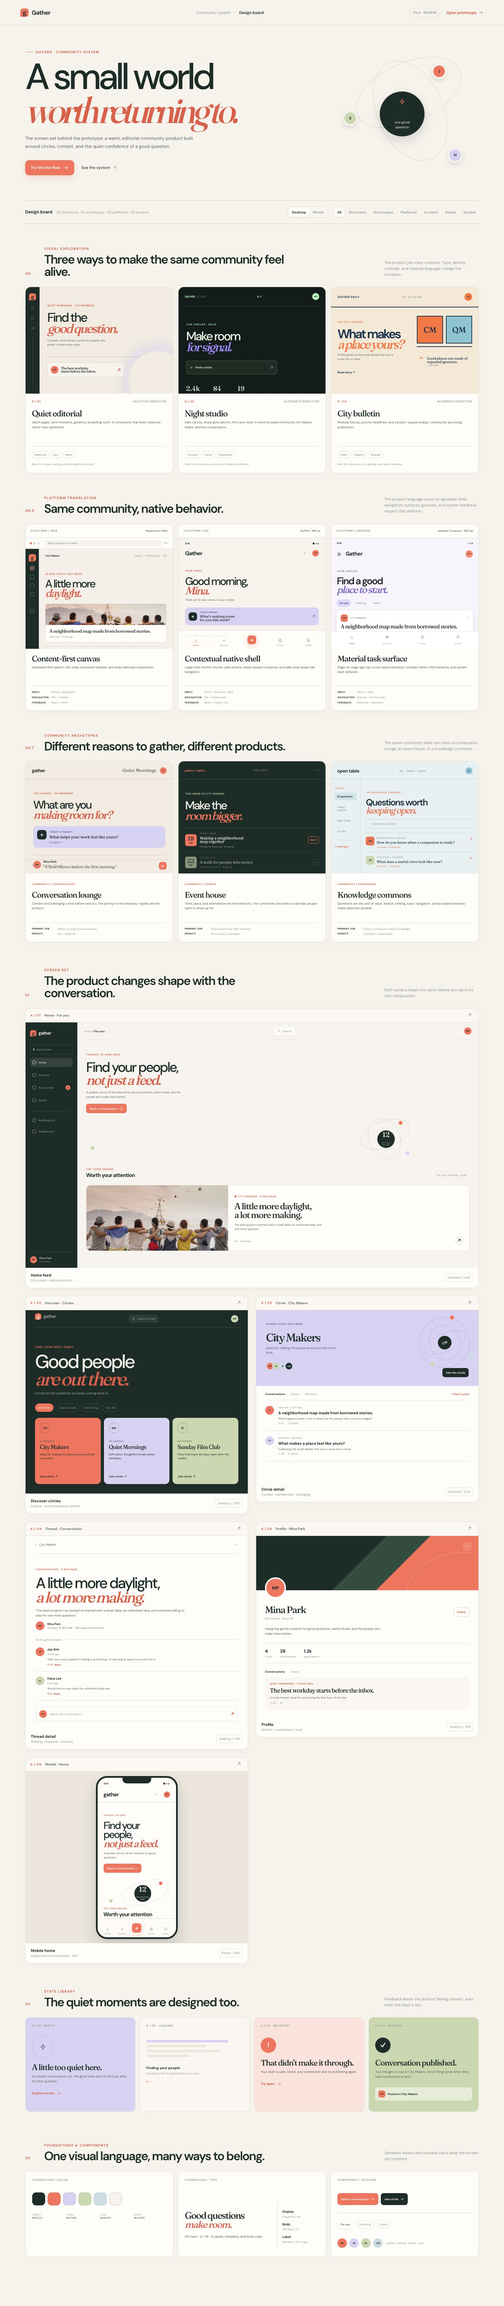
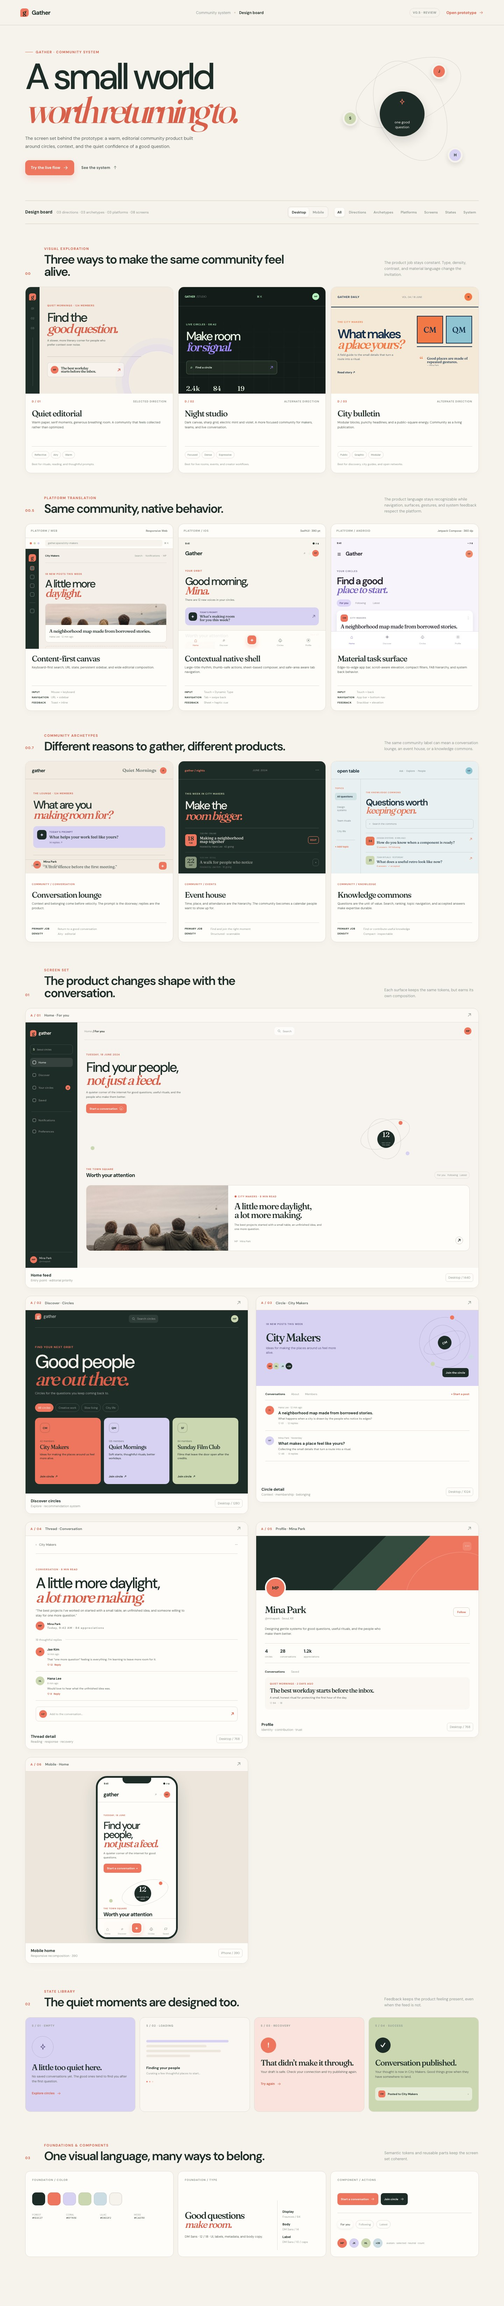
feat: make community imagery deterministic

Changed region(s): [[0.1562, 0.4986, 0.4688, 0.5609], [0.0938, 0.2493, 0.3438, 0.2804]]

diff --git a/examples/community/board.css b/examples/community/board.css
@@ -123,9 +123,9 @@ button:focus-visible, a:focus-visible { outline: 3px solid rgba(239,118,94,.4); 
 .platform-preview { position: relative; height: 316px; overflow: hidden; }
 .platform-info { padding: 17px 18px 18px; }.platform-info h3 { margin: 0 0 7px; color: var(--forest); font-family: var(--serif); font-size: 23px; font-weight: 500; letter-spacing: -.06em; line-height: 1; }.platform-info p { min-height: 43px; margin: 0; color: var(--ink-soft); font-size: 9px; line-height: 1.5; }.platform-contract { display: grid; gap: 5px; margin-top: 15px; padding-top: 12px; border-top: 1px solid var(--line); }.platform-contract span { color: var(--ink-faint); font-size: 8px; }.platform-contract b { display: inline-block; min-width: 55px; color: var(--forest); font-size: 7px; letter-spacing: .08em; text-transform: uppercase; }
 
-.web-platform-preview { background: #f4f0e9; }.browser-chrome { display: flex; align-items: center; gap: 5px; height: 31px; padding: 0 12px; border-bottom: 1px solid var(--line); background: #fffdf9; color: var(--ink-faint); }.browser-chrome > span { width: 6px; height: 6px; border-radius: 50%; background: var(--coral); }.browser-chrome > span:nth-child(2) { background: var(--moss); }.browser-chrome > span:nth-child(3) { background: var(--lilac); }.browser-chrome b { flex: 1; margin-left: 11px; padding: 5px 8px; border-radius: 5px; background: var(--paper); color: var(--ink-faint); font-size: 7px; font-weight: 500; }.browser-chrome i { font-size: 7px; font-style: normal; }.web-platform-body { display: grid; grid-template-columns: 38px 1fr; height: 285px; }.web-platform-sidebar { display: flex; flex-direction: column; align-items: center; gap: 13px; padding-top: 15px; background: var(--forest); }.web-platform-sidebar b { display: grid; place-items: center; width: 21px; height: 21px; border-radius: 7px 7px 7px 2px; background: var(--coral); color: var(--forest); font-family: var(--serif); font-size: 15px; }.web-platform-sidebar span { width: 12px; height: 12px; border: 1px solid rgba(255,255,255,.37); border-radius: 3px; }.web-platform-sidebar span.active { background: rgba(255,255,255,.22); border-color: var(--coral); }.web-platform-sidebar i { width: 17px; height: 1px; margin: 4px 0; background: rgba(255,255,255,.15); }.web-platform-main { padding: 0 18px; }.web-platform-nav { display: flex; align-items: center; justify-content: space-between; height: 40px; border-bottom: 1px solid var(--line); color: var(--ink-faint); font-size: 7px; }.web-platform-nav b { color: var(--forest); }.web-platform-main > small { display: block; margin-top: 27px; color: var(--coral-deep); font-size: 7px; font-weight: 700; letter-spacing: .12em; }.web-platform-main h3 { margin: 11px 0 16px; color: var(--forest); font-size: 31px; font-weight: 500; letter-spacing: -.09em; line-height: .85; }.web-platform-main h3 em { color: var(--coral-deep); font-family: var(--serif); font-weight: 500; }.web-platform-card { display: grid; gap: 5px; padding: 11px; border: 1px solid var(--line); border-radius: 9px; background: var(--surface); }.web-platform-card > span { height: 60px; margin: -11px -11px 6px; border-radius: 8px 8px 0 0; background: linear-gradient(145deg, rgba(239,118,94,.12), rgba(29,44,39,.15)), url('https://images.unsplash.com/photo-1529156069898-49953e39b3ac?auto=format&fit=crop&w=500&q=65') center/cover; }.web-platform-card b { color: var(--forest); font-family: var(--serif); font-size: 13px; font-weight: 500; letter-spacing: -.04em; line-height: 1; }.web-platform-card small { color: var(--ink-faint); font-size: 7px; }.web-platform-input { display: flex; justify-content: space-between; margin-top: 10px; padding: 8px 9px; border: 1px dashed var(--line-strong); border-radius: 7px; color: var(--ink-faint); font-size: 8px; }.web-platform-input b { color: var(--coral-deep); }
+.web-platform-preview { background: #f4f0e9; }.browser-chrome { display: flex; align-items: center; gap: 5px; height: 31px; padding: 0 12px; border-bottom: 1px solid var(--line); background: #fffdf9; color: var(--ink-faint); }.browser-chrome > span { width: 6px; height: 6px; border-radius: 50%; background: var(--coral); }.browser-chrome > span:nth-child(2) { background: var(--moss); }.browser-chrome > span:nth-child(3) { background: var(--lilac); }.browser-chrome b { flex: 1; margin-left: 11px; padding: 5px 8px; border-radius: 5px; background: var(--paper); color: var(--ink-faint); font-size: 7px; font-weight: 500; }.browser-chrome i { font-size: 7px; font-style: normal; }.web-platform-body { display: grid; grid-template-columns: 38px 1fr; height: 285px; }.web-platform-sidebar { display: flex; flex-direction: column; align-items: center; gap: 13px; padding-top: 15px; background: var(--forest); }.web-platform-sidebar b { display: grid; place-items: center; width: 21px; height: 21px; border-radius: 7px 7px 7px 2px; background: var(--coral); color: var(--forest); font-family: var(--serif); font-size: 15px; }.web-platform-sidebar span { width: 12px; height: 12px; border: 1px solid rgba(255,255,255,.37); border-radius: 3px; }.web-platform-sidebar span.active { background: rgba(255,255,255,.22); border-color: var(--coral); }.web-platform-sidebar i { width: 17px; height: 1px; margin: 4px 0; background: rgba(255,255,255,.15); }.web-platform-main { padding: 0 18px; }.web-platform-nav { display: flex; align-items: center; justify-content: space-between; height: 40px; border-bottom: 1px solid var(--line); color: var(--ink-faint); font-size: 7px; }.web-platform-nav b { color: var(--forest); }.web-platform-main > small { display: block; margin-top: 27px; color: var(--coral-deep); font-size: 7px; font-weight: 700; letter-spacing: .12em; }.web-platform-main h3 { margin: 11px 0 16px; color: var(--forest); font-size: 31px; font-weight: 500; letter-spacing: -.09em; line-height: .85; }.web-platform-main h3 em { color: var(--coral-deep); font-family: var(--serif); font-weight: 500; }.web-platform-card { display: grid; gap: 5px; padding: 11px; border: 1px solid var(--line); border-radius: 9px; background: var(--surface); }.web-platform-card > span { height: 60px; margin: -11px -11px 6px; border-radius: 8px 8px 0 0; background: linear-gradient(145deg, rgba(239,118,94,.12), rgba(29,44,39,.15)), url('./assets/editorial/group-overlook.jpg') center/cover; }.web-platform-card b { color: var(--forest); font-family: var(--serif); font-size: 13px; font-weight: 500; letter-spacing: -.04em; line-height: 1; }.web-platform-card small { color: var(--ink-faint); font-size: 7px; }.web-platform-input { display: flex; justify-content: space-between; margin-top: 10px; padding: 8px 9px; border: 1px dashed var(--line-strong); border-radius: 7px; color: var(--ink-faint); font-size: 8px; }.web-platform-input b { color: var(--coral-deep); }
 
-.ios-platform-preview { width: 100%; background: #f7f3ed; color: var(--forest); }.ios-status { display: flex; justify-content: space-between; padding: 11px 19px 0; font-size: 7px; font-weight: 700; }.ios-nav { display: flex; align-items: center; justify-content: space-between; padding: 13px 19px 10px; }.ios-nav b { font-size: 16px; letter-spacing: -.06em; }.ios-nav span { display: flex; align-items: center; color: var(--ink-faint); font-size: 10px; }.ios-nav i { display: grid; place-items: center; width: 19px; height: 19px; border-radius: 50%; background: var(--coral); color: var(--forest); font-size: 6px; font-style: normal; }.ios-body { padding: 16px 19px 70px; }.ios-body > small { color: var(--coral-deep); font-size: 7px; font-weight: 700; letter-spacing: .12em; }.ios-body h3 { margin: 10px 0 7px; color: var(--forest); font-size: 31px; font-weight: 500; letter-spacing: -.09em; line-height: .85; }.ios-body h3 em { color: var(--coral-deep); font-family: var(--serif); font-weight: 500; }.ios-body > p { margin: 0 0 17px; color: var(--ink-soft); font-size: 8px; }.ios-prompt { display: flex; align-items: center; gap: 8px; padding: 10px; border-radius: 11px; background: var(--lilac); }.ios-prompt > span { display: grid; place-items: center; width: 24px; height: 24px; border-radius: 8px; background: var(--forest); color: var(--lilac); font-size: 11px; }.ios-prompt div { display: grid; flex: 1; gap: 3px; }.ios-prompt small { color: var(--lilac-ink); font-size: 6px; font-weight: 700; }.ios-prompt b { color: var(--forest); font-family: var(--serif); font-size: 10px; font-weight: 500; line-height: .98; }.ios-prompt i { color: var(--lilac-ink); font-size: 13px; font-style: normal; }.ios-section { display: flex; justify-content: space-between; margin: 21px 0 9px; }.ios-section b { color: var(--forest); font-size: 13px; letter-spacing: -.04em; }.ios-section span { color: var(--coral-deep); font-size: 8px; font-weight: 700; }.ios-post { display: grid; grid-template-columns: 85px 1fr; gap: 10px; overflow: hidden; border-radius: 10px; background: var(--surface); box-shadow: 0 4px 12px rgba(29,44,39,.06); }.ios-image { min-height: 94px; background: linear-gradient(145deg, rgba(239,118,94,.12), rgba(29,44,39,.15)), url('https://images.unsplash.com/photo-1529156069898-49953e39b3ac?auto=format&fit=crop&w=400&q=65') center/cover; }.ios-post > div { display: grid; align-content: center; gap: 6px; padding-right: 8px; }.ios-post small { color: var(--coral-deep); font-size: 6px; font-weight: 700; }.ios-post b { color: var(--forest); font-family: var(--serif); font-size: 11px; font-weight: 500; letter-spacing: -.04em; line-height: .98; }.ios-post span { color: var(--ink-faint); font-size: 6px; }.ios-tabbar { position: absolute; right: 0; bottom: 0; left: 0; display: grid; grid-template-columns: repeat(5, 1fr); align-items: end; height: 53px; padding: 7px 9px 6px; border-top: 1px solid var(--line); background: rgba(255,253,249,.94); }.ios-tabbar span { display: grid; justify-items: center; gap: 1px; color: var(--ink-faint); font-size: 14px; }.ios-tabbar small { font-size: 6px; }.ios-tabbar span.selected { color: var(--coral-deep); }.ios-tabbar b { display: grid; place-items: center; width: 31px; height: 31px; margin: -7px auto 4px; border: 3px solid #f7f3ed; border-radius: 11px; background: var(--coral); color: white; font-size: 16px; box-shadow: 0 5px 12px rgba(239,118,94,.23); }
+.ios-platform-preview { width: 100%; background: #f7f3ed; color: var(--forest); }.ios-status { display: flex; justify-content: space-between; padding: 11px 19px 0; font-size: 7px; font-weight: 700; }.ios-nav { display: flex; align-items: center; justify-content: space-between; padding: 13px 19px 10px; }.ios-nav b { font-size: 16px; letter-spacing: -.06em; }.ios-nav span { display: flex; align-items: center; color: var(--ink-faint); font-size: 10px; }.ios-nav i { display: grid; place-items: center; width: 19px; height: 19px; border-radius: 50%; background: var(--coral); color: var(--forest); font-size: 6px; font-style: normal; }.ios-body { padding: 16px 19px 70px; }.ios-body > small { color: var(--coral-deep); font-size: 7px; font-weight: 700; letter-spacing: .12em; }.ios-body h3 { margin: 10px 0 7px; color: var(--forest); font-size: 31px; font-weight: 500; letter-spacing: -.09em; line-height: .85; }.ios-body h3 em { color: var(--coral-deep); font-family: var(--serif); font-weight: 500; }.ios-body > p { margin: 0 0 17px; color: var(--ink-soft); font-size: 8px; }.ios-prompt { display: flex; align-items: center; gap: 8px; padding: 10px; border-radius: 11px; background: var(--lilac); }.ios-prompt > span { display: grid; place-items: center; width: 24px; height: 24px; border-radius: 8px; background: var(--forest); color: var(--lilac); font-size: 11px; }.ios-prompt div { display: grid; flex: 1; gap: 3px; }.ios-prompt small { color: var(--lilac-ink); font-size: 6px; font-weight: 700; }.ios-prompt b { color: var(--forest); font-family: var(--serif); font-size: 10px; font-weight: 500; line-height: .98; }.ios-prompt i { color: var(--lilac-ink); font-size: 13px; font-style: normal; }.ios-section { display: flex; justify-content: space-between; margin: 21px 0 9px; }.ios-section b { color: var(--forest); font-size: 13px; letter-spacing: -.04em; }.ios-section span { color: var(--coral-deep); font-size: 8px; font-weight: 700; }.ios-post { display: grid; grid-template-columns: 85px 1fr; gap: 10px; overflow: hidden; border-radius: 10px; background: var(--surface); box-shadow: 0 4px 12px rgba(29,44,39,.06); }.ios-image { min-height: 94px; background: linear-gradient(145deg, rgba(239,118,94,.12), rgba(29,44,39,.15)), url('./assets/editorial/group-overlook.jpg') center/cover; }.ios-post > div { display: grid; align-content: center; gap: 6px; padding-right: 8px; }.ios-post small { color: var(--coral-deep); font-size: 6px; font-weight: 700; }.ios-post b { color: var(--forest); font-family: var(--serif); font-size: 11px; font-weight: 500; letter-spacing: -.04em; line-height: .98; }.ios-post span { color: var(--ink-faint); font-size: 6px; }.ios-tabbar { position: absolute; right: 0; bottom: 0; left: 0; display: grid; grid-template-columns: repeat(5, 1fr); align-items: end; height: 53px; padding: 7px 9px 6px; border-top: 1px solid var(--line); background: rgba(255,253,249,.94); }.ios-tabbar span { display: grid; justify-items: center; gap: 1px; color: var(--ink-faint); font-size: 14px; }.ios-tabbar small { font-size: 6px; }.ios-tabbar span.selected { color: var(--coral-deep); }.ios-tabbar b { display: grid; place-items: center; width: 31px; height: 31px; margin: -7px auto 4px; border: 3px solid #f7f3ed; border-radius: 11px; background: var(--coral); color: white; font-size: 16px; box-shadow: 0 5px 12px rgba(239,118,94,.23); }
 
 .android-platform-preview { background: #f7f5fb; color: #26232d; }.android-status { display: flex; justify-content: space-between; padding: 10px 16px 0; color: #26232d; font-size: 7px; font-weight: 700; }.android-appbar { display: flex; align-items: center; gap: 12px; padding: 16px 16px 14px; color: #26232d; }.android-appbar span { font-size: 15px; }.android-appbar b { flex: 1; font-size: 15px; letter-spacing: -.04em; }.android-appbar i { display: grid; place-items: center; width: 21px; height: 21px; border-radius: 50%; background: #f08b6e; font-size: 6px; font-style: normal; }.android-body { position: relative; min-height: 218px; padding: 11px 16px 60px; }.android-title small { color: #786f8f; font-size: 7px; font-weight: 700; letter-spacing: .12em; }.android-title h3 { margin: 9px 0 14px; color: #26232d; font-size: 28px; font-weight: 600; letter-spacing: -.08em; line-height: .88; }.android-title h3 em { color: #7863c0; font-family: var(--serif); font-weight: 500; }.android-filter { display: flex; gap: 4px; margin-bottom: 11px; overflow: hidden; }.android-filter span { padding: 6px 8px; border-radius: 999px; color: #8c8796; font-size: 7px; white-space: nowrap; }.android-filter span.selected { background: #dfd7f8; color: #574685; font-weight: 700; }.android-card { display: grid; gap: 7px; padding: 11px; border-radius: 12px; background: white; box-shadow: 0 5px 14px rgba(65,56,88,.1); }.android-card-top { display: flex; align-items: center; gap: 6px; }.android-card-top span { display: grid; place-items: center; width: 21px; height: 21px; border-radius: 7px; background: #ef765e; color: #26232d; font-size: 6px; font-weight: 700; }.android-card-top small { flex: 1; color: #8c8796; font-size: 6px; font-weight: 700; letter-spacing: .1em; }.android-card-top i { color: #8c8796; font-size: 12px; font-style: normal; }.android-card > b { color: #26232d; font-family: var(--serif); font-size: 15px; font-weight: 500; letter-spacing: -.04em; line-height: .98; }.android-card p { margin: 0; color: #77717e; font-size: 8px; line-height: 1.35; }.android-card-bottom { display: flex; justify-content: space-between; color: #9d98a6; font-size: 6px; }.android-card-bottom b { color: #7863c0; font-size: 6px; }.android-fab { position: absolute; right: 20px; bottom: 14px; display: grid; place-items: center; width: 35px; height: 35px; border-radius: 11px; background: #7863c0; color: white; font-size: 19px; box-shadow: 0 6px 13px rgba(120,99,192,.3); }.android-nav { position: absolute; right: 0; bottom: 0; left: 0; display: grid; grid-template-columns: repeat(4, 1fr); height: 50px; padding: 7px 8px 5px; border-top: 1px solid #e4dfef; background: #fff; }.android-nav span { display: grid; justify-items: center; gap: 1px; color: #9d98a6; font-size: 13px; }.android-nav small { font-size: 6px; }.android-nav span.selected { color: #7863c0; }
 
@@ -181,7 +181,7 @@ button:focus-visible, a:focus-visible { outline: 3px solid rgba(239,118,94,.4); 
 .mini-home { min-width: 0; padding: 0 20px 20px; }.mini-topbar { display: flex; align-items: center; justify-content: space-between; height: 50px; border-bottom: 1px solid var(--line); color: var(--ink-faint); font-size: 8px; }.mini-topbar b { color: var(--ink); }.mini-search { display: flex; align-items: center; gap: 5px; padding: 6px 8px; border-radius: 7px; background: rgba(255,255,255,.7); color: var(--ink-faint); }.mini-search .board-icon { width: 11px; height: 11px; }.mini-avatar { display: grid; place-items: center; width: 21px; height: 21px; border-radius: 50%; background: var(--coral); color: var(--forest) !important; font-size: 7px; }
 .mini-home-body { display: grid; grid-template-columns: minmax(0, 1fr) 150px; gap: 18px; padding: 28px 5px; }.mini-hello { grid-column: span 2; }.mini-hello small, .mini-section-head small, .mini-feature small { color: var(--coral-deep); font-size: 7px; font-weight: 700; letter-spacing: .12em; }.mini-hello h3 { margin: 10px 0 10px; color: var(--forest); font-size: clamp(23px, 4vw, 39px); font-weight: 500; letter-spacing: -.08em; line-height: .95; }.mini-hello p { max-width: 275px; margin: 0 0 14px; color: var(--ink-soft); font-size: 8px; line-height: 1.55; }.mini-hello button { padding: 8px 10px; border-radius: 7px; background: var(--coral); color: white; font-size: 8px; font-weight: 700; }.mini-hello button span { display: inline-grid; place-items: center; width: 11px; height: 11px; margin-left: 3px; border: 1px solid rgba(255,255,255,.55); border-radius: 50%; }
 .mini-orbit { position: relative; height: 112px; }.mini-orbit:before, .mini-orbit:after { position: absolute; content: ""; border: 1px solid rgba(29,44,39,.15); border-radius: 50%; transform: rotate(-20deg); }.mini-orbit:before { top: 4px; right: 0; width: 145px; height: 74px; }.mini-orbit:after { top: -4px; right: 30px; width: 90px; height: 116px; }.mini-orbit span { position: absolute; top: 31px; right: 46px; display: grid; place-items: center; width: 50px; height: 50px; border-radius: 50%; background: var(--forest); color: var(--paper); font-family: var(--serif); font-size: 20px; line-height: .8; }.mini-orbit span small { margin-top: 4px; color: rgba(255,255,255,.65); font-family: var(--sans); font-size: 5px; line-height: 1.2; text-align: center; }.mini-orbit i { position: absolute; z-index: 1; width: 15px; height: 15px; border: 2px solid #f7f4ef; border-radius: 50%; }.mini-orbit i:nth-child(1) { top: 2px; right: 22px; background: var(--coral); }.mini-orbit i:nth-child(2) { top: 74px; left: 11px; background: var(--moss); }.mini-orbit i:nth-child(3) { right: 2px; bottom: 8px; background: var(--lilac); }
-.mini-section-head { display: flex; align-items: flex-end; justify-content: space-between; grid-column: span 2; padding-top: 7px; }.mini-section-head span { display: grid; gap: 3px; }.mini-section-head span b { color: var(--forest); font-size: 15px; letter-spacing: -.05em; }.mini-section-head em { padding: 5px 7px; border: 1px solid var(--line); border-radius: 999px; color: var(--ink-faint); font-size: 7px; font-style: normal; }.mini-feature { display: grid; grid-template-columns: 37% 1fr; grid-column: span 2; min-height: 145px; overflow: hidden; border: 1px solid var(--line); border-radius: 13px; background: var(--surface); }.mini-feature-image { min-height: 145px; background: linear-gradient(145deg, rgba(239,118,94,.15), rgba(29,44,39,.15)), url('https://images.unsplash.com/photo-1529156069898-49953e39b3ac?auto=format&fit=crop&w=700&q=65') center/cover; filter: saturate(.7); }.mini-feature > div:last-child { padding: 18px; }.mini-feature h4 { max-width: 230px; margin: 8px 0; color: var(--forest); font-family: var(--serif); font-size: clamp(17px, 2.5vw, 25px); font-weight: 500; letter-spacing: -.06em; line-height: 1.02; }.mini-feature p { max-width: 260px; margin: 0 0 16px; color: var(--ink-soft); font-size: 8px; line-height: 1.5; }.mini-feature > div:last-child > span { color: var(--ink-faint); font-size: 7px; }.mini-feature > div:last-child > span b { float: right; display: grid; place-items: center; width: 22px; height: 22px; border: 1px solid var(--line-strong); border-radius: 50%; color: var(--ink); font-size: 12px; }
+.mini-section-head { display: flex; align-items: flex-end; justify-content: space-between; grid-column: span 2; padding-top: 7px; }.mini-section-head span { display: grid; gap: 3px; }.mini-section-head span b { color: var(--forest); font-size: 15px; letter-spacing: -.05em; }.mini-section-head em { padding: 5px 7px; border: 1px solid var(--line); border-radius: 999px; color: var(--ink-faint); font-size: 7px; font-style: normal; }.mini-feature { display: grid; grid-template-columns: 37% 1fr; grid-column: span 2; min-height: 145px; overflow: hidden; border: 1px solid var(--line); border-radius: 13px; background: var(--surface); }.mini-feature-image { min-height: 145px; background: linear-gradient(145deg, rgba(239,118,94,.15), rgba(29,44,39,.15)), url('./assets/editorial/group-overlook.jpg') center/cover; filter: saturate(.7); }.mini-feature > div:last-child { padding: 18px; }.mini-feature h4 { max-width: 230px; margin: 8px 0; color: var(--forest); font-family: var(--serif); font-size: clamp(17px, 2.5vw, 25px); font-weight: 500; letter-spacing: -.06em; line-height: 1.02; }.mini-feature p { max-width: 260px; margin: 0 0 16px; color: var(--ink-soft); font-size: 8px; line-height: 1.5; }.mini-feature > div:last-child > span { color: var(--ink-faint); font-size: 7px; }.mini-feature > div:last-child > span b { float: right; display: grid; place-items: center; width: 22px; height: 22px; border: 1px solid var(--line-strong); border-radius: 50%; color: var(--ink); font-size: 12px; }
 
 /* miniature Discover screen */
 .canvas-discover { min-height: 490px; padding: 0 27px 27px; background: var(--forest); color: var(--paper); }.mini-topbar.dark { border-bottom-color: rgba(255,255,255,.13); color: rgba(255,255,255,.55); }.mini-topbar.dark b { color: var(--paper); }.mini-search.light { background: rgba(255,255,255,.08); color: rgba(255,255,255,.52); }.light-avatar { background: var(--moss); }.discover-copy { padding: 42px 0 23px; }.discover-copy small { color: var(--coral); font-size: 8px; font-weight: 700; letter-spacing: .13em; }.discover-copy h3 { margin: 10px 0; font-size: clamp(32px, 5vw, 54px); font-weight: 500; letter-spacing: -.08em; line-height: .9; }.discover-copy p { margin: 0; color: rgba(255,255,255,.6); font-size: 9px; }.discover-tags { display: flex; gap: 5px; margin-bottom: 17px; }.discover-tags span { padding: 6px 8px; border: 1px solid rgba(255,255,255,.16); border-radius: 999px; color: rgba(255,255,255,.52); font-size: 8px; }.discover-tags span.selected { border-color: var(--coral); background: var(--coral); color: white; }.discover-cards { display: grid; grid-template-columns: repeat(3, 1fr); gap: 9px; }.circle-tile { min-height: 187px; padding: 14px; border-radius: 12px; color: var(--forest); }.circle-tile > span { display: grid; place-items: center; width: 29px; height: 29px; margin-bottom: 19px; border: 2px solid rgba(29,44,39,.15); border-radius: 10px; font-size: 8px; font-weight: 700; }.circle-tile small { display: block; margin-bottom: 5px; font-size: 7px; opacity: .64; }.circle-tile strong { display: block; font-family: var(--serif); font-size: 16px; font-weight: 500; letter-spacing: -.05em; line-height: .95; }.circle-tile p { min-height: 39px; margin: 8px 0 16px; font-size: 8px; line-height: 1.35; }.circle-tile > b { font-size: 8px; }.coral-tile { background: var(--coral); }.lilac-tile { background: var(--lilac); }.moss-tile { background: var(--moss); }
@@ -196,7 +196,7 @@ button:focus-visible, a:focus-visible { outline: 3px solid rgba(239,118,94,.4); 
 .canvas-profile { min-height: 490px; background: var(--surface); }.profile-cover { position: relative; height: 155px; background: linear-gradient(135deg, var(--forest) 0 47%, #344c40 47% 63%, var(--coral) 63%); }.profile-cover:after { position: absolute; right: -50px; bottom: -80px; width: 260px; height: 180px; border: 1px solid rgba(255,255,255,.25); border-radius: 50%; content: ""; transform: rotate(-23deg); }.profile-cover > span { position: absolute; bottom: -23px; left: 25px; z-index: 1; display: grid; place-items: center; width: 60px; height: 60px; border: 4px solid var(--surface); border-radius: 50%; background: var(--coral); color: var(--forest); font-size: 13px; font-weight: 700; }.profile-cover > button { position: absolute; top: 17px; right: 20px; width: 25px; height: 25px; border-radius: 7px; background: rgba(255,255,255,.12); color: white; }.profile-content { padding: 39px 25px 22px; }.profile-head { display: flex; align-items: center; justify-content: space-between; }.profile-head h3 { margin: 0 0 3px; color: var(--forest); font-family: var(--serif); font-size: 27px; font-weight: 500; letter-spacing: -.06em; }.profile-head p { margin: 0; color: var(--ink-faint); font-size: 8px; }.profile-head button { padding: 7px 10px; border: 1px solid var(--line-strong); border-radius: 7px; background: transparent; color: var(--coral-deep); font-size: 8px; font-weight: 700; }.profile-bio { max-width: 350px; margin: 19px 0; color: var(--ink-soft); font-size: 9px; line-height: 1.55; }.profile-stats { display: flex; gap: 22px; padding: 13px 0; border-top: 1px solid var(--line); border-bottom: 1px solid var(--line); }.profile-stats span { display: grid; gap: 3px; color: var(--ink-faint); font-size: 7px; }.profile-stats b { color: var(--forest); font-size: 13px; }.profile-tabs { display: flex; gap: 18px; padding: 19px 0 11px; color: var(--ink-faint); font-size: 8px; }.profile-tabs b { color: var(--ink); }.profile-post { display: grid; gap: 6px; padding: 14px; border-radius: 10px; background: var(--surface-soft); }.profile-post small { color: var(--coral-deep); font-size: 7px; font-weight: 700; letter-spacing: .1em; }.profile-post strong { color: var(--forest); font-family: var(--serif); font-size: 17px; font-weight: 500; letter-spacing: -.05em; line-height: 1.04; }.profile-post p { margin: 0; color: var(--ink-soft); font-size: 8px; }.profile-post span { color: var(--ink-faint); font-size: 7px; }
 
 /* miniature mobile screen */
-.canvas-mobile { display: grid; place-items: center; min-height: 490px; background: var(--paper-deep); }.phone-frame { position: relative; width: 234px; height: 465px; overflow: hidden; border: 5px solid var(--forest); border-radius: 32px; background: var(--surface); box-shadow: 0 20px 45px rgba(29,44,39,.18); }.phone-notch { position: absolute; top: 0; left: 50%; z-index: 2; width: 82px; height: 16px; border-radius: 0 0 12px 12px; background: var(--forest); transform: translateX(-50%); }.phone-status { display: flex; justify-content: space-between; padding: 12px 18px 0; color: var(--forest); font-size: 7px; font-weight: 700; }.phone-top { display: flex; align-items: center; justify-content: space-between; padding: 17px 17px 11px; border-bottom: 1px solid var(--line); color: var(--forest); font-size: 11px; }.phone-top > b { font-size: 15px; letter-spacing: -.06em; }.phone-top > span { display: flex; align-items: center; color: var(--ink-faint); font-size: 10px; }.phone-top i { display: grid; place-items: center; width: 18px; height: 18px; border-radius: 50%; background: var(--coral); color: var(--forest); font-size: 6px; font-style: normal; }.phone-body { padding: 23px 17px 74px; }.phone-kicker, .phone-section small, .phone-story > span { color: var(--coral-deep); font-size: 6px; font-weight: 700; letter-spacing: .12em; }.phone-body h3 { margin: 9px 0 8px; color: var(--forest); font-size: 29px; font-weight: 500; letter-spacing: -.09em; line-height: .9; }.phone-body > p { max-width: 180px; margin: 0 0 12px; color: var(--ink-soft); font-size: 8px; line-height: 1.5; }.phone-body > button { padding: 8px 10px; border-radius: 7px; background: var(--coral); color: white; font-size: 8px; font-weight: 700; }.phone-orbit { position: relative; height: 85px; margin-top: 13px; }.phone-orbit:before { position: absolute; top: 10px; right: 3px; width: 135px; height: 65px; border: 1px solid rgba(29,44,39,.14); border-radius: 50%; content: ""; transform: rotate(-17deg); }.phone-orbit span { position: absolute; top: 22px; right: 54px; display: grid; place-items: center; width: 48px; height: 48px; border-radius: 50%; background: var(--forest); color: white; font-family: var(--serif); font-size: 20px; line-height: .7; }.phone-orbit span small { margin-top: 4px; font-family: var(--sans); font-size: 5px; line-height: 1.2; text-align: center; }.phone-orbit i { position: absolute; z-index: 1; width: 14px; height: 14px; border: 2px solid var(--surface); border-radius: 50%; }.phone-orbit i:nth-child(1) { top: 10px; right: 20px; background: var(--coral); }.phone-orbit i:nth-child(2) { top: 60px; left: 14px; background: var(--moss); }.phone-section { display: grid; gap: 3px; margin-bottom: 9px; }.phone-section b { color: var(--forest); font-size: 15px; letter-spacing: -.05em; }.phone-story { display: grid; gap: 7px; overflow: hidden; border: 1px solid var(--line); border-radius: 10px; background: var(--surface); }.phone-story > div { height: 82px; background: linear-gradient(145deg, rgba(239,118,94,.13), rgba(29,44,39,.16)), url('https://images.unsplash.com/photo-1529156069898-49953e39b3ac?auto=format&fit=crop&w=600&q=65') center/cover; }.phone-story > span, .phone-story > strong, .phone-story > small { margin: 0 11px; }.phone-story > strong { color: var(--forest); font-family: var(--serif); font-size: 17px; font-weight: 500; letter-spacing: -.06em; line-height: 1.02; }.phone-story > small { padding-bottom: 11px; color: var(--ink-faint); font-size: 7px; }.phone-nav { position: absolute; right: 0; bottom: 0; left: 0; display: grid; grid-template-columns: repeat(5, 1fr); align-items: end; height: 54px; padding: 8px 8px 6px; border-top: 1px solid var(--line); background: rgba(255,253,249,.96); }.phone-nav span { display: grid; justify-items: center; gap: 1px; color: var(--ink-faint); font-size: 13px; }.phone-nav small { font-size: 6px; }.phone-nav b { display: grid; place-items: center; width: 33px; height: 33px; margin: -8px auto 4px; border: 3px solid var(--surface); border-radius: 11px; background: var(--coral); color: white; box-shadow: 0 5px 12px rgba(239,118,94,.25); }
+.canvas-mobile { display: grid; place-items: center; min-height: 490px; background: var(--paper-deep); }.phone-frame { position: relative; width: 234px; height: 465px; overflow: hidden; border: 5px solid var(--forest); border-radius: 32px; background: var(--surface); box-shadow: 0 20px 45px rgba(29,44,39,.18); }.phone-notch { position: absolute; top: 0; left: 50%; z-index: 2; width: 82px; height: 16px; border-radius: 0 0 12px 12px; background: var(--forest); transform: translateX(-50%); }.phone-status { display: flex; justify-content: space-between; padding: 12px 18px 0; color: var(--forest); font-size: 7px; font-weight: 700; }.phone-top { display: flex; align-items: center; justify-content: space-between; padding: 17px 17px 11px; border-bottom: 1px solid var(--line); color: var(--forest); font-size: 11px; }.phone-top > b { font-size: 15px; letter-spacing: -.06em; }.phone-top > span { display: flex; align-items: center; color: var(--ink-faint); font-size: 10px; }.phone-top i { display: grid; place-items: center; width: 18px; height: 18px; border-radius: 50%; background: var(--coral); color: var(--forest); font-size: 6px; font-style: normal; }.phone-body { padding: 23px 17px 74px; }.phone-kicker, .phone-section small, .phone-story > span { color: var(--coral-deep); font-size: 6px; font-weight: 700; letter-spacing: .12em; }.phone-body h3 { margin: 9px 0 8px; color: var(--forest); font-size: 29px; font-weight: 500; letter-spacing: -.09em; line-height: .9; }.phone-body > p { max-width: 180px; margin: 0 0 12px; color: var(--ink-soft); font-size: 8px; line-height: 1.5; }.phone-body > button { padding: 8px 10px; border-radius: 7px; background: var(--coral); color: white; font-size: 8px; font-weight: 700; }.phone-orbit { position: relative; height: 85px; margin-top: 13px; }.phone-orbit:before { position: absolute; top: 10px; right: 3px; width: 135px; height: 65px; border: 1px solid rgba(29,44,39,.14); border-radius: 50%; content: ""; transform: rotate(-17deg); }.phone-orbit span { position: absolute; top: 22px; right: 54px; display: grid; place-items: center; width: 48px; height: 48px; border-radius: 50%; background: var(--forest); color: white; font-family: var(--serif); font-size: 20px; line-height: .7; }.phone-orbit span small { margin-top: 4px; font-family: var(--sans); font-size: 5px; line-height: 1.2; text-align: center; }.phone-orbit i { position: absolute; z-index: 1; width: 14px; height: 14px; border: 2px solid var(--surface); border-radius: 50%; }.phone-orbit i:nth-child(1) { top: 10px; right: 20px; background: var(--coral); }.phone-orbit i:nth-child(2) { top: 60px; left: 14px; background: var(--moss); }.phone-section { display: grid; gap: 3px; margin-bottom: 9px; }.phone-section b { color: var(--forest); font-size: 15px; letter-spacing: -.05em; }.phone-story { display: grid; gap: 7px; overflow: hidden; border: 1px solid var(--line); border-radius: 10px; background: var(--surface); }.phone-story > div { height: 82px; background: linear-gradient(145deg, rgba(239,118,94,.13), rgba(29,44,39,.16)), url('./assets/editorial/group-overlook.jpg') center/cover; }.phone-story > span, .phone-story > strong, .phone-story > small { margin: 0 11px; }.phone-story > strong { color: var(--forest); font-family: var(--serif); font-size: 17px; font-weight: 500; letter-spacing: -.06em; line-height: 1.02; }.phone-story > small { padding-bottom: 11px; color: var(--ink-faint); font-size: 7px; }.phone-nav { position: absolute; right: 0; bottom: 0; left: 0; display: grid; grid-template-columns: repeat(5, 1fr); align-items: end; height: 54px; padding: 8px 8px 6px; border-top: 1px solid var(--line); background: rgba(255,253,249,.96); }.phone-nav span { display: grid; justify-items: center; gap: 1px; color: var(--ink-faint); font-size: 13px; }.phone-nav small { font-size: 6px; }.phone-nav b { display: grid; place-items: center; width: 33px; height: 33px; margin: -8px auto 4px; border: 3px solid var(--surface); border-radius: 11px; background: var(--coral); color: white; box-shadow: 0 5px 12px rgba(239,118,94,.25); }
 
 /* states */
 .states-section { padding-bottom: 16px; }.state-grid { display: grid; grid-template-columns: repeat(4, minmax(0, 1fr)); gap: 12px; }.state-card { min-height: 270px; padding: 18px; border: 1px solid var(--line); border-radius: 14px; background: var(--surface); }.state-index { display: block; color: var(--ink-faint); font-size: 8px; font-weight: 700; letter-spacing: .11em; }.state-card h3 { margin: 16px 0 8px; color: var(--forest); font-family: var(--serif); font-size: 23px; font-weight: 500; letter-spacing: -.06em; line-height: 1; }.state-card p { margin: 0; color: var(--ink-soft); font-size: 9px; line-height: 1.55; }.state-card button { display: inline-flex; align-items: center; gap: 6px; margin-top: 20px; padding: 0; background: transparent; color: var(--coral-deep); font-size: 9px; font-weight: 700; }.state-card button .board-icon { width: 13px; height: 13px; }.empty-state-card { background: var(--lilac); }.state-orbit { display: grid; place-items: center; width: 62px; height: 62px; margin: 25px 0 8px; border: 1px solid rgba(98,90,136,.25); border-radius: 50%; color: var(--lilac-ink); }.state-orbit .board-icon { width: 21px; height: 21px; }.loading-state-card { background: var(--surface-soft); }.loading-bars { display: grid; gap: 7px; margin: 36px 0 24px; }.loading-bars i { display: block; height: 7px; border-radius: 99px; background: var(--line); }.loading-bars i:nth-child(1) { width: 85%; background: var(--lilac); }.loading-bars i:nth-child(2) { width: 62%; background: var(--paper-deep); }.loading-bars i:nth-child(3) { width: 77%; background: var(--paper-deep); }.loading-bars i:nth-child(4) { width: 45%; background: var(--paper-deep); }.loading-copy { display: grid; gap: 4px; }.loading-copy b { color: var(--forest); font-size: 10px; }.loading-copy span { color: var(--ink-faint); font-size: 8px; }.loading-dot { display: flex; gap: 4px; margin-top: 17px; }.loading-dot i { width: 4px; height: 4px; border-radius: 50%; background: var(--coral); }.loading-dot i:nth-child(2) { opacity: .6; }.loading-dot i:nth-child(3) { opacity: .25; }.error-state-card { background: #f9e3dc; }.error-mark, .success-check { display: grid; place-items: center; width: 44px; height: 44px; margin: 29px 0 17px; border-radius: 50%; font-size: 19px; font-weight: 700; }.error-mark { background: var(--coral); color: white; }.success-state-card { background: var(--moss); }.success-check { background: var(--forest); color: white; }.success-toast { display: flex; align-items: center; gap: 7px; margin-top: 22px; padding: 9px; border-radius: 8px; background: rgba(255,253,249,.55); font-size: 8px; }.success-toast span { display: grid; place-items: center; width: 20px; height: 20px; border-radius: 6px; background: var(--coral); color: var(--forest); font-size: 6px; font-weight: 700; }.success-toast b { flex: 1; color: var(--forest); }.success-toast i { color: var(--ink-faint); font-style: normal; }

diff --git a/examples/community/index.html b/examples/community/index.html
@@ -155,7 +155,7 @@
               </div>
 
               <article class="feature-card">
-                <div class="feature-image-wrap"><img class="feature-image" src="https://images.unsplash.com/photo-1529156069898-49953e39b3ac?auto=format&fit=crop&w=1200&q=85" alt="Friends sharing a conversation outdoors" /><span class="image-label">Featured in City Makers</span></div>
+                <div class="feature-image-wrap"><img class="feature-image" src="./assets/editorial/group-overlook.jpg" alt="Friends sharing a conversation outdoors" /><span class="image-label">Featured in City Makers</span></div>
                 <div class="feature-content"><div class="post-meta"><span class="circle-dot dot-coral"></span><span>City Makers</span><span class="meta-separator">·</span><span>8 min read</span></div><h3>A little more daylight, a lot more making.</h3><p>“The best projects I’ve worked on started with a small table, an unfinished idea, and someone willing to stay for one more question.”</p><div class="feature-footer"><div class="author-line"><span class="avatar avatar-mina">MP</span><span><strong>Mina Park</strong><small>Today, 9:42 AM</small></span></div><button class="round-arrow" type="button" aria-label="Read featured story"><svg class="icon" aria-hidden="true"><use href="#icon-arrow-up" /></svg></button></div></div>
               </article>
 

diff --git a/examples/community/app.js b/examples/community/app.js
@@ -12,7 +12,7 @@ const posts = [
     time: "14 min ago",
     likes: 84,
     comments: 18,
-    image: "https://images.unsplash.com/photo-1499750310107-5fef28a66643?auto=format&fit=crop&w=700&q=85",
+    image: "./assets/editorial/desk-ritual.jpg",
     alt: "Notebook, coffee, and a laptop on a desk"
   },
   {
@@ -28,7 +28,7 @@ const posts = [
     time: "38 min ago",
     likes: 61,
     comments: 12,
-    image: "https://images.unsplash.com/photo-1521737711867-e3b97375f902?auto=format&fit=crop&w=700&q=85",
+    image: "./assets/editorial/collaborative-table.jpg",
     alt: "Small group collaborating around a table"
   },
   {
@@ -44,7 +44,7 @@ const posts = [
     time: "1 hr ago",
     likes: 42,
     comments: 9,
-    image: "https://images.unsplash.com/photo-1485846234645-a62644f84728?auto=format&fit=crop&w=700&q=85",
+    image: "./assets/editorial/cinema-afterglow.jpg",
     alt: "Cinema seats facing a movie screen"
   }
 ];
@@ -305,7 +305,7 @@ composerForm.addEventListener("submit", (event) => {
     time: "Just now",
     likes: 0,
     comments: 0,
-    image: "https://images.unsplash.com/photo-1499750310107-5fef28a66643?auto=format&fit=crop&w=700&q=85",
+    image: "./assets/editorial/desk-ritual.jpg",
     alt: "Notebook and coffee on a desk"
   });
   state.filter = "all";

diff --git a/tests/test_capture_and_platform_contract.py b/tests/test_capture_and_platform_contract.py
@@ -35,6 +35,23 @@ class CaptureAndPlatformContractTests(unittest.TestCase):
         self.assertIn("platform-parity.md", skill)
         self.assertRegex(parity, re.compile(r"review-ready", re.IGNORECASE))
 
+    def test_community_demo_imagery_is_local_and_tracked(self):
+        community = ROOT / "examples" / "community"
+        source_files = (community / "app.js", community / "index.html", community / "board.css")
+        combined = "\n".join(path.read_text(encoding="utf-8") for path in source_files)
+        self.assertNotIn("images.unsplash.com", combined)
+
+        for relative_path in (
+            "assets/editorial/group-overlook.jpg",
+            "assets/editorial/desk-ritual.jpg",
+            "assets/editorial/collaborative-table.jpg",
+            "assets/editorial/cinema-afterglow.jpg",
+        ):
+            asset = community / relative_path
+            self.assertTrue(asset.is_file(), relative_path)
+            self.assertGreater(asset.stat().st_size, 1024, relative_path)
+            self.assertIn(relative_path, combined)
+
 
 if __name__ == "__main__":
     unittest.main()

diff --git a/examples/community/design-spec.md b/examples/community/design-spec.md
@@ -162,7 +162,7 @@ Scores use the 0–4 rubric in `references/review-rubric.md` and only claim what
 
 - **medium — native runtime:** iOS/SwiftUI and Android/Jetpack Compose are platform-aware design targets, but no compiled native implementation or simulator evidence is included in this example.
 - **medium — data/runtime integration:** authentication, backend persistence, network retry, offline caching, analytics, and deployment checks still require product integration.
-- **low — visual regression review:** capture automation and CI artifact review are now available through `npm run capture:community`; a cross-environment pixel-diff threshold remains open so font and image rendering do not create false failures.
+- **low — visual regression review:** capture automation and CI artifact review are now available through `npm run capture:community`; demo imagery is local, but a cross-environment pixel-diff threshold remains open so font rendering does not create false failures.
 
 These findings intentionally prevent a `release-ready` claim. The next implementation slice should close the native/runtime evidence only when those targets are in scope.
 

diff --git a/README.md b/README.md
@@ -50,7 +50,7 @@ Run the same checks used by the repository workflow:
 npm run ci:quality
 ```
 
-This runs the Python contract suite, evidence manifest validator, and dependency-light skill validator. Pull requests also run the browser interaction assertions, render the evidence matrix in GitHub Actions, and upload the generated images as an artifact for visual review. The workflow intentionally does not use a hard pixel-diff gate yet because font and remote demo-image rendering can vary across environments.
+This runs the Python contract suite, evidence manifest validator, and dependency-light skill validator. Pull requests also run the browser interaction assertions, render the evidence matrix in GitHub Actions, and upload the generated images as an artifact for visual review. Demo imagery is checked into `examples/community/assets/editorial/` so captures do not depend on an image CDN; the workflow intentionally does not use a hard pixel-diff gate yet because font rendering can still vary across environments.
 
 ## Design standard
 

diff --git a/CONTRIBUTING.md b/CONTRIBUTING.md
@@ -53,4 +53,4 @@ Keep changes focused and explain the product reason in the pull request descript
 
 Use clear, scoped commits such as `feat: add ...`, `fix: correct ...`, or `docs: clarify ...`. Never commit `node_modules`; it is ignored by the repository.
 
-GitHub Actions runs `npm run ci:quality` and a separate Chromium evidence render on every push to `main` and pull request. The rendered images are uploaded for review; they are not treated as a pixel-perfect baseline until the repository has a stable cross-environment diff policy.
+GitHub Actions runs `npm run ci:quality` and a separate Chromium evidence render on every push to `main` and pull request. Demo imagery is local to keep those renders stable; the rendered images are uploaded for review and are not treated as a pixel-perfect baseline until the repository has deterministic font loading and a stable cross-environment diff policy.

diff --git a/docs/superpowers/plans/2026-08-21-design-skills-v0.4-interaction-hardening.md b/docs/superpowers/plans/2026-08-21-design-skills-v0.4-interaction-hardening.md
@@ -25,7 +25,8 @@ Make the polished web prototype behave like a production handoff at the moments 
 
 - [x] Add contract coverage for URL state and focus handoff.
 - [x] Add browser assertions for URL restoration, focus return, and skip-link navigation to the runtime evidence manifest.
-- [ ] Add deterministic local font/image assets before enforcing pixel-diff thresholds in CI.
+- [x] Replace external demo imagery with local editorial assets so evidence crops are deterministic.
+- [ ] Add deterministic local font assets before enforcing pixel-diff thresholds in CI.
 
 ### 4. Scope boundaries
 

diff --git a/docs/superpowers/plans/2026-08-21-design-skills-v0.3-contributor-automation.md b/docs/superpowers/plans/2026-08-21-design-skills-v0.3-contributor-automation.md
@@ -25,7 +25,7 @@ Make the design-quality contract easy to run in a clean checkout and easy to rev
 - [x] Run contract checks on pushes to `main` and pull requests.
 - [x] Render the declared community viewport matrix in a separate Chromium job.
 - [x] Upload generated evidence as a short-retention artifact for human visual review.
-- [ ] Establish a cross-environment pixel-diff baseline and threshold after font/image sources are deterministic.
+- [ ] Establish a cross-environment pixel-diff baseline and threshold after font sources are deterministic.
 
 ### 4. Scope boundaries
 
